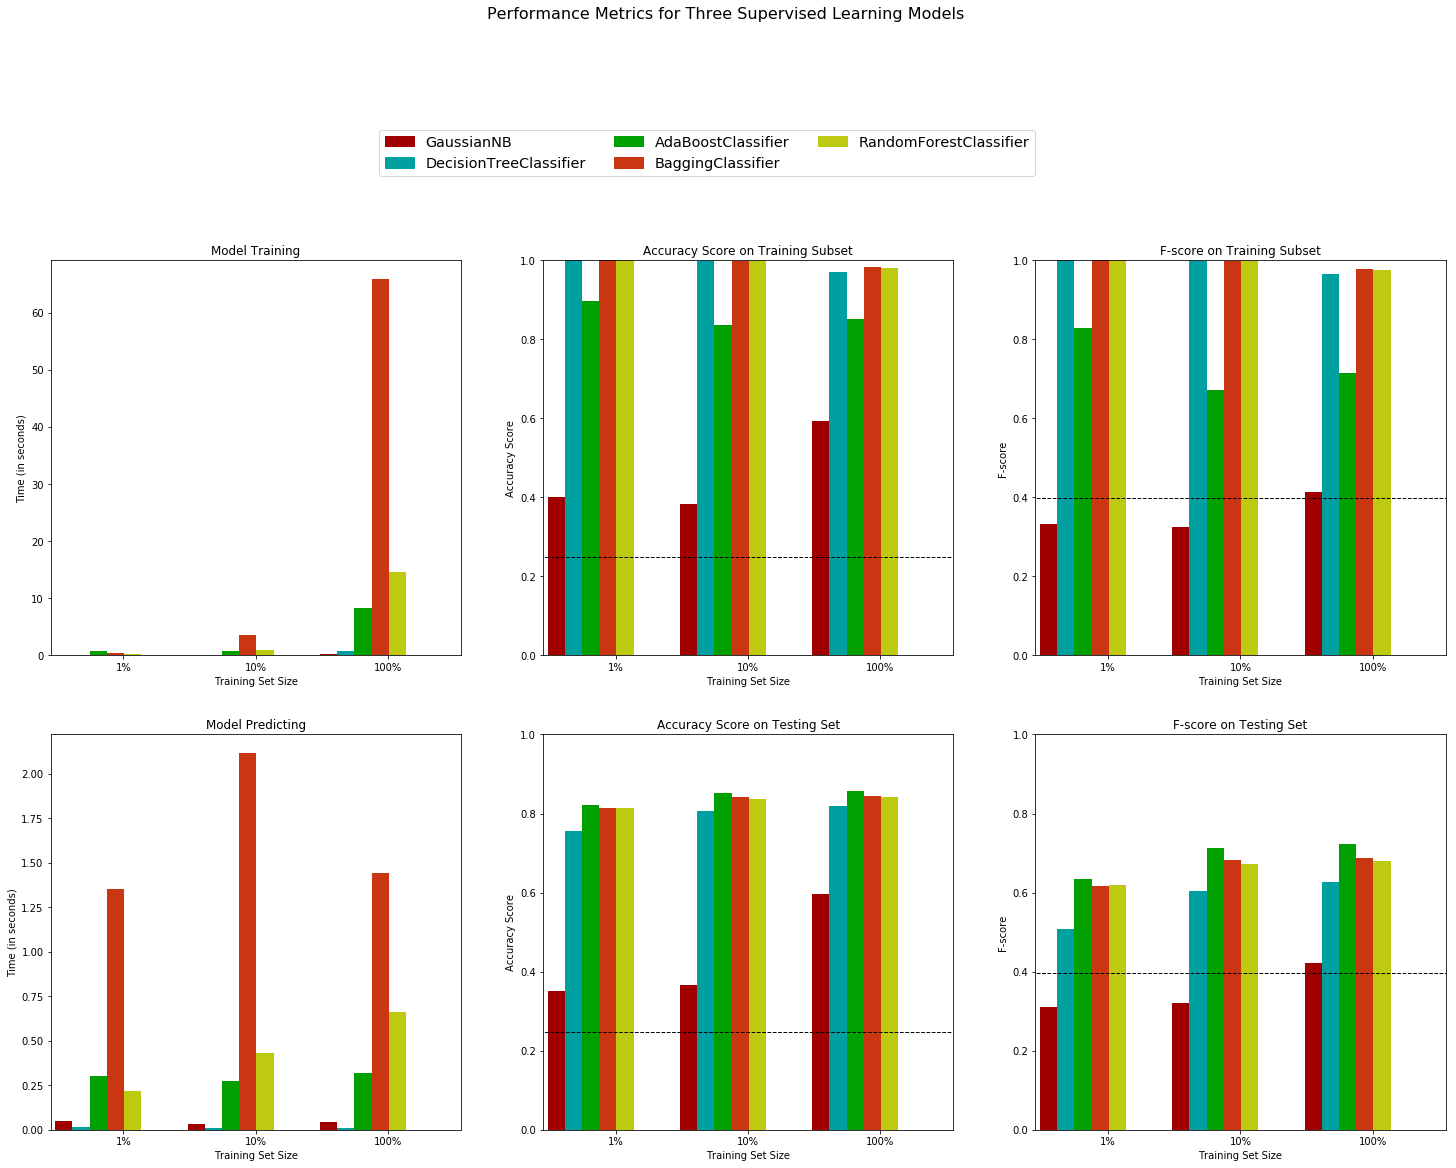
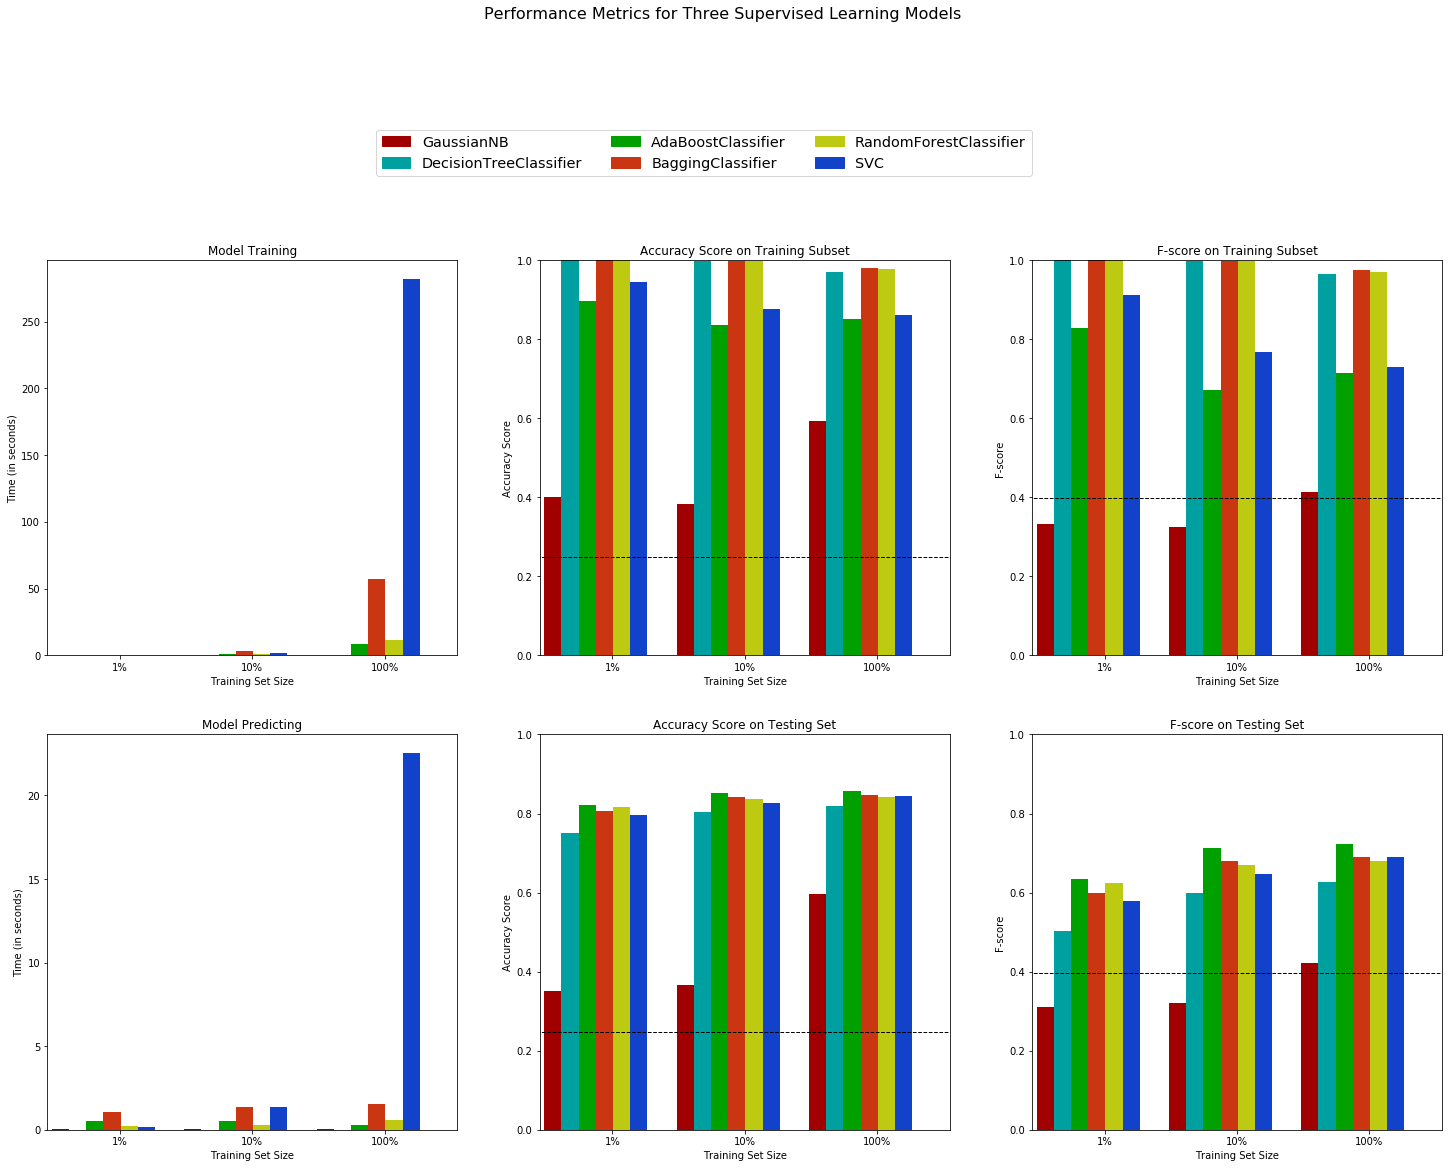
proj 1: add svm model

diff --git a/Projects/Finding Donors for CharityML/src/visuals.py b/Projects/Finding Donors for CharityML/src/visuals.py
@@ -63,7 +63,7 @@ def evaluate(results, accuracy, f1):
     fig, ax = pl.subplots(2, 3, figsize = (25,16))
     # Constants
     bar_width = 0.13
-    colors = ['#A00000','#00A0A0','#00A000', '#c93611', '#bec911']
+    colors = ['#A00000','#00A0A0','#00A000', '#c93611', '#bec911', '#1142c9']
     # Super loop to plot four panels of data
     for k, learner in enumerate(results.keys()):
         for j, metric in enumerate(['train_time', 'acc_train', 'f_train', 'pred_time', 'acc_test', 'f_test']):

diff --git a/README.md b/README.md
@@ -16,17 +16,17 @@
 
 [Metrics_Classification](https://github.com/dylan-shao/ML-DS-Udacity_Data_Scientist_Nanodegree/blob/master/Supervised%20Learning/Metrics_Classification)
 
-[Mini-batch_example](https://github.com/dylan-shao/ML-DS-Udacity_Data_Scientist_Nanodegree/blob/master/Supervised%20Learning/Mini-batch_example)
-
 [Metrics_Regression](https://github.com/dylan-shao/ML-DS-Udacity_Data_Scientist_Nanodegree/blob/master/Supervised%20Learning/Metrics_Regression)
 
-[PolynomialRegression](https://github.com/dylan-shao/ML-DS-Udacity_Data_Scientist_Nanodegree/blob/master/Supervised%20Learning/PolynomialRegression)
+[Mini-batch_example](https://github.com/dylan-shao/ML-DS-Udacity_Data_Scientist_Nanodegree/blob/master/Supervised%20Learning/Mini-batch_example)
 
 [Perceptron](https://github.com/dylan-shao/ML-DS-Udacity_Data_Scientist_Nanodegree/blob/master/Supervised%20Learning/Perceptron)
 
-[SVM](https://github.com/dylan-shao/ML-DS-Udacity_Data_Scientist_Nanodegree/blob/master/Supervised%20Learning/SVM)
+[PolynomialRegression](https://github.com/dylan-shao/ML-DS-Udacity_Data_Scientist_Nanodegree/blob/master/Supervised%20Learning/PolynomialRegression)
 
 [Regularization_FeatureScaling](https://github.com/dylan-shao/ML-DS-Udacity_Data_Scientist_Nanodegree/blob/master/Supervised%20Learning/Regularization_FeatureScaling)
+
+[SVM](https://github.com/dylan-shao/ML-DS-Udacity_Data_Scientist_Nanodegree/blob/master/Supervised%20Learning/SVM)
 
 [Spam_&_Ensembles](https://github.com/dylan-shao/ML-DS-Udacity_Data_Scientist_Nanodegree/blob/master/Supervised%20Learning/Spam_%26_Ensembles)
 

diff --git a/Projects/Finding Donors for CharityML/src/README.md b/Projects/Finding Donors for CharityML/src/README.md
@@ -1220,7 +1220,7 @@ from sklearn.tree import DecisionTreeClassifier
 from sklearn.ensemble import AdaBoostClassifier
 from sklearn.ensemble import BaggingClassifier
 from sklearn.ensemble import RandomForestClassifier
-
+from sklearn.svm import SVC
 
 # TODO: Initialize the three models
 clf_A = GaussianNB()
@@ -1228,6 +1228,7 @@ clf_B = DecisionTreeClassifier()
 clf_C = AdaBoostClassifier(n_estimators=200, learning_rate=0.2)
 clf_D = BaggingClassifier(n_estimators=200) 
 clf_E = RandomForestClassifier(n_estimators=200)
+clf_F = SVC(gamma='auto', C=1000)
 
 # TODO: Calculate the number of samples for 1%, 10%, and 100% of the training data
 # HINT: samples_100 is the entire training set i.e. len(y_train)
@@ -1239,7 +1240,7 @@ samples_1 = len(y_train) // 100
 
 # Collect results on the learners
 results = {}
-for clf in [clf_A, clf_B, clf_C, clf_D, clf_E]:
+for clf in [clf_A, clf_B, clf_C, clf_D, clf_E, clf_F]:
     clf_name = clf.__class__.__name__
     results[clf_name] = {}
     for i, samples in enumerate([samples_1, samples_10, samples_100]):
@@ -1265,6 +1266,9 @@ vs.evaluate(results, accuracy, fscore)
     RandomForestClassifier trained on 361 samples.
     RandomForestClassifier trained on 3617 samples.
     RandomForestClassifier trained on 36177 samples.
+    SVC trained on 361 samples.
+    SVC trained on 3617 samples.
+    SVC trained on 36177 samples.
 
 
 
